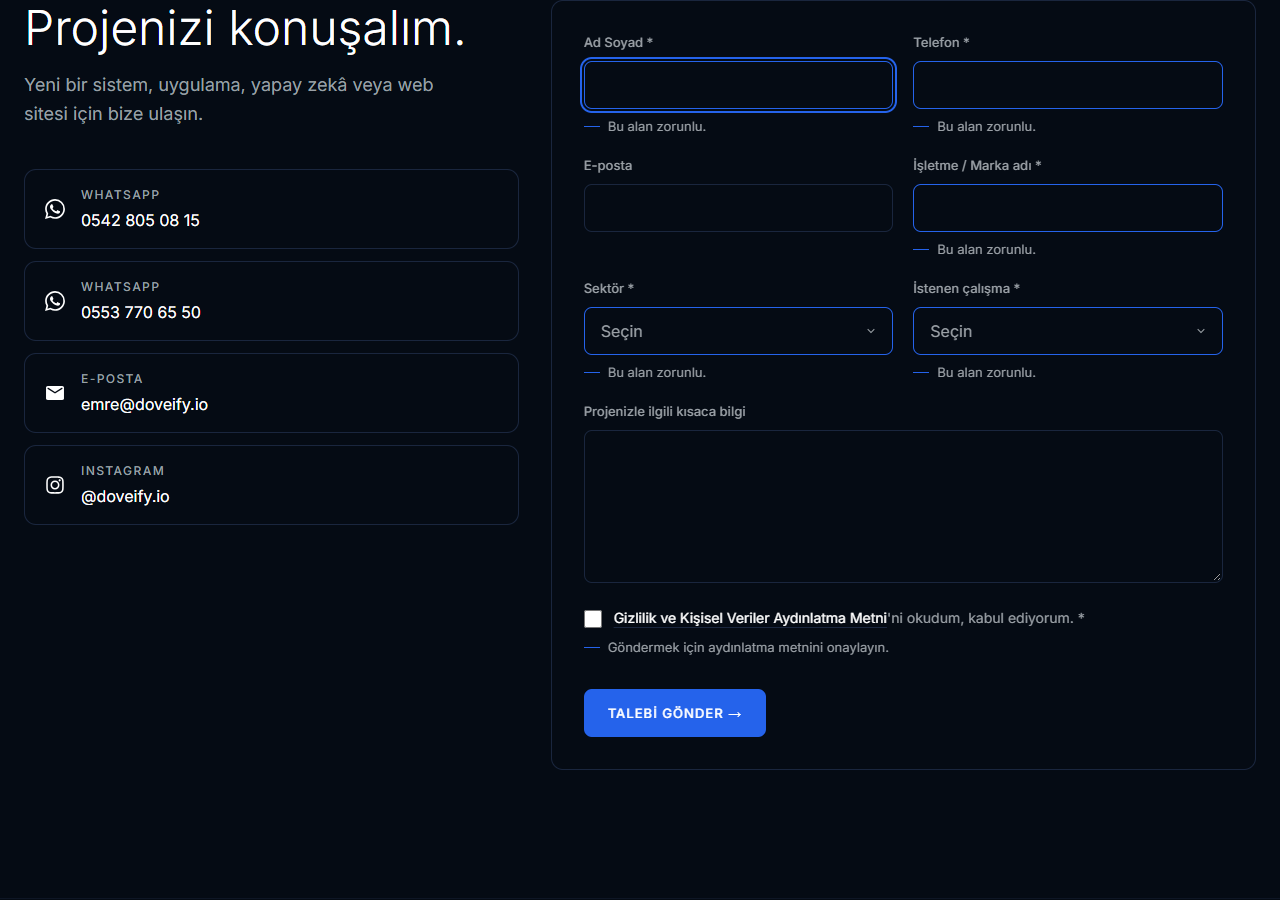
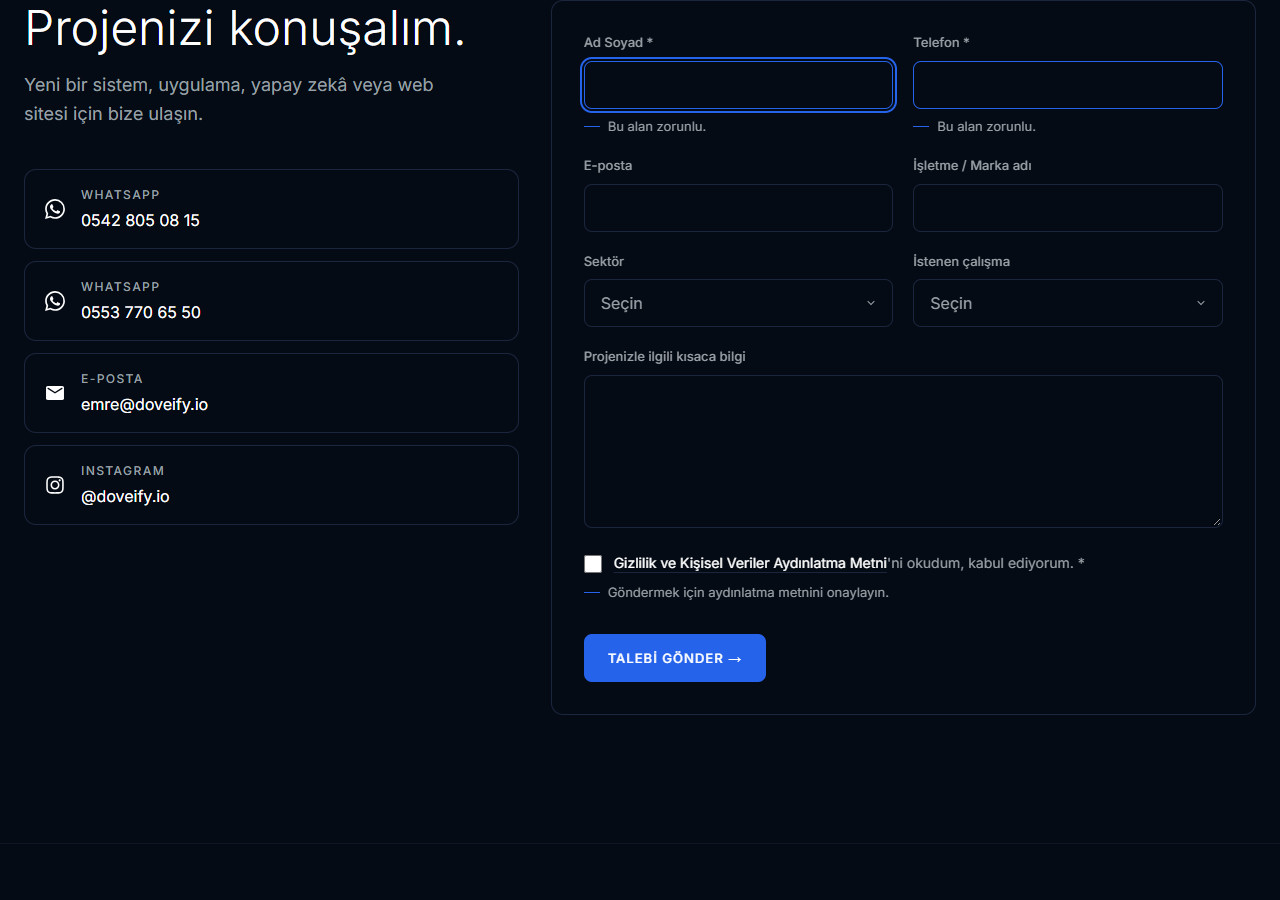
P7 fix: zorunlu alanlar ad+telefon, select/autofill renk

diff --git a/src/components/HomePageV2/ContactForm.tsx b/src/components/HomePageV2/ContactForm.tsx
@@ -1,4 +1,4 @@
-import { useEffect, useRef, useState, type FormEvent, type ReactNode } from 'react';
+import { useEffect, useRef, useState, type ChangeEvent, type FormEvent, type ReactNode } from 'react';
 import classNames from 'classnames';
 import ChevronDown from '../svgs/chevron-down';
 import { useLocale } from './locale';
@@ -11,6 +11,10 @@ import { CONTACT_FORM_NAME, HONEYPOT_FIELD, whatsappHref, type ContactFormConten
  * "WhatsApp'tan yazın" link. Validation runs in the browser first (same rules as the API route); errors are not
  * red: secondary text with a short blue line, and the field border turns blue. On success the form is replaced
  * by the confirmation and a link to the WhatsApp card.
+ * P7 düzeltme (Emre): only Ad Soyad, Telefon and the KVKK consent are required; e-mail (format-checked when
+ * filled), business, sector, service and message are optional. Native <option>s are dark-on-white (the OS
+ * draws the open list, it can't be forced dark); the closed select shows its value in white, the empty
+ * placeholder in secondary. Autofill colours are overridden in main.css (.v2-root :-webkit-autofill).
  */
 type FieldName = 'name' | 'phone' | 'email' | 'business' | 'sector' | 'service' | 'message' | 'consent';
 type Errors = Partial<Record<FieldName, string>>;
@@ -30,9 +34,6 @@ function validate(data: FormData, t: ContactFormContent): Errors {
     if (!value('phone')) errors.phone = t.errors.required;
     else if (digits.length < 10 || digits.length > 15) errors.phone = t.errors.phone;
     if (value('email') && !EMAIL_RE.test(value('email'))) errors.email = t.errors.email;
-    if (!value('business')) errors.business = t.errors.required;
-    if (!value('sector')) errors.sector = t.errors.required;
-    if (!value('service')) errors.service = t.errors.required;
     if (!data.get('consent')) errors.consent = t.errors.consent;
     return errors;
 }
@@ -121,21 +122,21 @@ export default function ContactForm({ t, successHref }: { t: ContactFormContent;
 
             <div className="grid grid-cols-1 gap-x-5 gap-y-5 sm:grid-cols-2">
                 <Field id="name" label={t.name} required error={errors.name}>
-                    <input id="name" name="name" type="text" autoComplete="name" maxLength={100} {...fieldProps('name', errors)} />
+                    <input id="name" name="name" type="text" autoComplete="name" maxLength={100} required {...fieldProps('name', errors)} />
                 </Field>
                 <Field id="phone" label={t.phone} required error={errors.phone}>
-                    <input id="phone" name="phone" type="tel" autoComplete="tel" inputMode="tel" maxLength={30} {...fieldProps('phone', errors)} />
+                    <input id="phone" name="phone" type="tel" autoComplete="tel" inputMode="tel" maxLength={30} required {...fieldProps('phone', errors)} />
                 </Field>
                 <Field id="email" label={t.email} error={errors.email}>
                     <input id="email" name="email" type="email" autoComplete="email" maxLength={120} {...fieldProps('email', errors)} />
                 </Field>
-                <Field id="business" label={t.business} required error={errors.business}>
+                <Field id="business" label={t.business} error={errors.business}>
                     <input id="business" name="business" type="text" autoComplete="organization" maxLength={120} {...fieldProps('business', errors)} />
                 </Field>
-                <Field id="sector" label={t.sector} required error={errors.sector}>
+                <Field id="sector" label={t.sector} error={errors.sector}>
                     <Select id="sector" options={t.sectors} placeholder={t.selectPlaceholder} errors={errors} />
                 </Field>
-                <Field id="service" label={t.service} required error={errors.service}>
+                <Field id="service" label={t.service} error={errors.service}>
                     <Select id="service" options={t.services} placeholder={t.selectPlaceholder} errors={errors} />
                 </Field>
                 <div className="sm:col-span-2">
@@ -218,16 +219,29 @@ function Field({ id, label, required, error, children }: { id: FieldName; label:
     );
 }
 
+// Open list: OS-drawn, so options get explicit dark text on white (#0B1220 / #fff) to stay readable.
+const OPTION_CLASS = 'bg-white text-[#0B1220]';
+
 function Select({ id, options, placeholder, errors }: { id: 'sector' | 'service'; options: string[]; placeholder: string; errors: Errors }) {
     const { className, ...aria } = fieldProps(id, errors);
+    const [empty, setEmpty] = useState(true);
     return (
         <div className="relative">
-            <select id={id} name={id} required defaultValue="" {...aria} className={classNames(className, 'appearance-none pr-10 invalid:text-v2-text-secondary')}>
-                <option value="" disabled className="bg-v2-bg-base">
+            <select
+                id={id}
+                name={id}
+                defaultValue=""
+                onChange={(event: ChangeEvent<HTMLSelectElement>) => setEmpty(event.target.value === '')}
+                {...aria}
+                className={classNames(className, 'appearance-none pr-10')}
+                // inline, not a class: FIELD_CLASS already sets text-white and two text-* utilities would race
+                style={{ color: empty ? 'var(--color-v2-text-secondary)' : '#fff' }}
+            >
+                <option value="" className={OPTION_CLASS}>
                     {placeholder}
                 </option>
                 {options.map((option) => (
-                    <option key={option} value={option} className="bg-v2-bg-base">
+                    <option key={option} value={option} className={OPTION_CLASS}>
                         {option}
                     </option>
                 ))}

diff --git a/src/pages/api/contact.ts b/src/pages/api/contact.ts
@@ -41,9 +41,9 @@ export function validateContact(body: Record<string, unknown>): { fields: Fields
     const digits = fields.phone.replace(/\D/g, '');
     if (digits.length < 10 || digits.length > 15) errors.push('phone');
     if (fields.email && !EMAIL_RE.test(fields.email)) errors.push('email');
-    if (!fields.business) errors.push('business');
-    if (!SECTORS.has(fields.sector)) errors.push('sector');
-    if (!SERVICES.has(fields.service)) errors.push('service');
+    // P7 düzeltme: business / sector / service are optional; a sent sector or service must be one of the list.
+    if (fields.sector && !SECTORS.has(fields.sector)) errors.push('sector');
+    if (fields.service && !SERVICES.has(fields.service)) errors.push('service');
     if (!fields.consent) errors.push('consent');
     return { fields, errors };
 }
@@ -79,18 +79,19 @@ export default async function handler(req: NextApiRequest, res: NextApiResponse)
         return res.status(503).json({ ok: false, error: 'not_configured' });
     }
 
+    const dash = (value: string) => value || '—'; // empty optional field
     const text = [
         `Ad Soyad: ${fields.name}`,
         `Telefon: ${fields.phone}`,
-        `E-posta: ${fields.email || '-'}`,
-        `İşletme / Marka: ${fields.business}`,
-        `Sektör: ${fields.sector}`,
-        `İstenen çalışma: ${fields.service}`,
+        `E-posta: ${dash(fields.email)}`,
+        `İşletme / Marka: ${dash(fields.business)}`,
+        `Sektör: ${dash(fields.sector)}`,
+        `İstenen çalışma: ${dash(fields.service)}`,
         `Dil: ${fields.locale.toUpperCase()}`,
         `KVKK onayı: evet`,
         '',
         'Projenizle ilgili kısaca bilgi:',
-        fields.message || '-'
+        dash(fields.message)
     ].join('\n');
 
     try {
@@ -100,7 +101,7 @@ export default async function handler(req: NextApiRequest, res: NextApiResponse)
             body: JSON.stringify({
                 from: process.env.RESEND_FROM || 'Doveify Site <onboarding@resend.dev>',
                 to: [process.env.CONTACT_TO || 'emre@doveify.io'],
-                subject: `Yeni iletişim talebi — ${fields.business} (${fields.service})`,
+                subject: `Yeni iletişim talebi — ${fields.business || fields.name}${fields.service ? ` (${fields.service})` : ''}`,
                 text,
                 ...(fields.email ? { reply_to: fields.email } : {})
             })

diff --git a/src/css/main.css b/src/css/main.css
@@ -1009,3 +1009,23 @@
 .v2-wf-collage ul::-webkit-scrollbar {
     display: none;
 }
+
+/*
+ * P7 düzeltme: browser autofill paints inputs white with black text. Cover it with the elevated surface
+ * (inset shadow — autofill background can't be set directly) and keep the text white.
+ */
+.v2-root input:-webkit-autofill,
+.v2-root input:-webkit-autofill:hover,
+.v2-root input:-webkit-autofill:focus,
+.v2-root textarea:-webkit-autofill,
+.v2-root textarea:-webkit-autofill:hover,
+.v2-root textarea:-webkit-autofill:focus,
+.v2-root select:-webkit-autofill,
+.v2-root select:-webkit-autofill:hover,
+.v2-root select:-webkit-autofill:focus {
+    -webkit-box-shadow: inset 0 0 0 1000px var(--color-v2-bg-elevated);
+    box-shadow: inset 0 0 0 1000px var(--color-v2-bg-elevated);
+    -webkit-text-fill-color: #fff;
+    caret-color: #fff;
+    transition: background-color 9999s ease-out 0s;
+}

diff --git a/RAPOR-P7.md b/RAPOR-P7.md
@@ -169,3 +169,15 @@
 **Kapı (P7 son):** `tsc --noEmit` 0 · `npm run build` 0 · `npm run lint` 0 (aynı 2 eski uyarı) · `/gizlilik/`, `/en/privacy/`, `/iletisim/`, `/en/contact/` 200, `/privacy/` 301. Lighthouse yeniden koşulmadı: değişiklik form hata dalı ve EN gizlilik metniyle sınırlı, homepage değişmedi.
 
 **Hâlâ açık:** preview'da gerçek test gönderimi (Resend → emre@doveify.io) · nav 1024–1179 hamburger onayı · gizlilik §2a'da sektör/çalışma alanları · EN çeviri onayı.
+
+## P7 düzeltme — iletişim formu (Emre, 05.11.2026)
+1. **Zorunlu alanlar:** yalnız `Ad Soyad`, `Telefon` ve KVKK onayı (yıldız yalnız bu üçünde). E-posta, İşletme / Marka adı, Sektör, İstenen çalışma ve mesaj isteğe bağlı. E-posta doluysa biçimi kontrol ediliyor. API de aynı kuralla güncellendi: sektör/çalışma gönderilirse listedekilerden biri olmalı (değilse 400). Resend gövdesinde boş alanlar `—`. Konu satırı: `Yeni iletişim talebi — <işletme ya da ad>` (+ çalışma seçildiyse ` (<çalışma>)`). Select'lerdeki `Seçin` artık seçilebilir (boş değere dönmek için).
+2. **Açılır liste okunurluğu:** `<option>`'lar `#0B1220` metin / `#fff` zemin (açık liste OS tarafından çiziliyor, koyu temaya zorlanamıyor). Kapalı select seçili değeri beyaz, boşken (`Seçin`) secondary gösteriyor; renk inline `style` ile, çünkü alan sınıfındaki `text-white` ile ikinci bir `text-*` sınıfı CSS sırasına göre çakışırdı. Ölçüm: boş `rgb(154,160,166)` → seçili `rgb(255,255,255)` → tekrar boş `rgb(154,160,166)`; option `rgb(11,18,32)` üstünde `rgb(255,255,255)`.
+3. **Autofill:** `.v2-root` içindeki input/textarea/select için `:-webkit-autofill` (+ `:hover`, `:focus`) → `box-shadow: inset 0 0 0 1000px var(--color-v2-bg-elevated)`, `-webkit-text-fill-color: #fff`, `caret-color: #fff`. Brief'teki `--color-v2-bg-elev` token'ı kodda yok; karşılığı `--color-v2-bg-elevated` (#1c2f47) kullanıldı. Kural build CSS'inde var (9 seçici). Gerçek tarayıcı autofill'i headless testte tetiklenemiyor, bu yüzden görsel olarak doğrulanmadı; kendi Chrome'unuzda bir kez kontrol edin.
+4. **Test + ekran:**
+   - Boş gönderim → yalnız `name`, `phone`, `consent` hatası; odak `Ad Soyad` (`docs/qa/P7-1280-iletisim-hata.png` yenilendi).
+   - Yalnız Ad Soyad + Telefon + onay → istemci doğrulamasından geçti, tek POST `/api/contact/`; yerelde anahtar olmadığı için 503 → hata satırı + WhatsApp linki. Doğrudan API: aynı gövde 503 (doğrulamayı geçti), geçersiz sektör 400, telefonsuz 400.
+   - Başarı: `/api/contact/` yanıtı 200'e mock'lanarak (yerelde Resend anahtarı yok) yalnız zorunlu alanlarla gönderildi → başarı kartı, odak kartta. Ekran **`docs/qa/P7-1280-iletisim-basari.png`**. Gerçek Resend teslimi hâlâ preview'da test edilecek.
+   - `P7-1280-iletisim.png` ve `P7-375-iletisim.png` yeni yıldızlarla yeniden çekildi.
+- **Kapı:** `tsc --noEmit` 0 · `npm run build` 0 · `npm run lint` 0 (aynı 2 eski uyarı).
+- **Değişen dosyalar:** `src/components/HomePageV2/ContactForm.tsx`, `src/pages/api/contact.ts`, `src/css/main.css` (autofill bloğu), `DESIGN-LOCK.md` (İletişim formu satırı), `PROJECT-STATE.md`, `docs/qa/P7-1280-{iletisim,iletisim-hata,iletisim-basari}.png`, `docs/qa/P7-375-iletisim.png` (+ aynı koşumda yeniden çekilen `P7-1280-{nav,sahiplik,clinic}.png`, `P7-375-{nav,wa-button}.png`, görsel olarak değişmedi).

diff --git a/DESIGN-LOCK.md b/DESIGN-LOCK.md
@@ -103,7 +103,7 @@ CD-REVİZE-BEKLİYOR. Görsel otorite `approved/homepage-v1.png`; ölçü/motion
 - Yollar `/iletisim/`, `/en/contact/`; nav + footer + WhatsApp buton. Sayfaya özel title/description/canonical/hreflang; OG ana sayfa görseli.
 - Desktop 12 kolon: sol 1–5 H1 `Projenizi konuşalım.` Inter 300 48 / 32px + alt metin 400 18 / 16px secondary (max 440) + 4 kanal kartı alt alta (gap 12); sağ 6–12 form kartı (1px kenarlık, radius 12, padding 32 / 24). Mobil: başlık → form → kartlar (sm: kartlar 2 kolon).
 - Kanal kartı: koyu zemin, 1px `--color-v2-border`, radius 12, padding 16/20; ikon 20px monokrom beyaz, hover kenarlık + ikon mavi; etiket 500 12px uppercase `.12em` secondary, değer 400 16px beyaz. Marka renkleri (yeşil/pembe) yok.
-- Form: etiket 500 13px secondary (zorunlu `*`); alan 48px, 1px kenarlık, radius 8, şeffaf zemin, 16px beyaz, odakta mavi kenarlık; select özel ok, boşken secondary; textarea 5 satır. Desktop alanlar 2 kolon (mesaj tam genişlik). KVKK onay kutusu 18px mavi accent, link beyaz alt çizgili. Buton: hero CTA 1 stili `TALEBİ GÖNDER →`.
+- Form: etiket 500 13px secondary (zorunlu `*` yalnız Ad Soyad, Telefon ve KVKK onayında — P7 düzeltme); alan 48px, 1px kenarlık, radius 8, şeffaf zemin, 16px beyaz, odakta mavi kenarlık; select özel ok, boşken secondary, seçiliyken beyaz; açılır liste OS'nin çizdiği native liste: option `#0B1220` metin / `#fff` zemin. Autofill: inset gölge `--color-v2-bg-elevated` + beyaz metin. textarea 5 satır. Desktop alanlar 2 kolon (mesaj tam genişlik). KVKK onay kutusu 18px mavi accent, link beyaz alt çizgili. Buton: hero CTA 1 stili `TALEBİ GÖNDER →`.
 - Hata: kırmızı yok — alan kenarlığı mavi + altında 13px secondary metin, başında 16px mavi çizgi; ilk hatalı alana odak. Gönderim hatası (P7 son): butonun altında aynı satır + `WhatsApp'tan yazın.` linki (beyaz, alt çizgili); Netlify Forms fallback'i yok, tek kanal Resend. Başarı: form yerine kart, 40px mavi çizgi + 300 28 / 24px metin + WhatsApp kartına link; odak başarı kartına.
 - Motion: yalnız form fadeUp bir kez; başlık statik (LCP öğesi — hepsi opacity 0 başlayınca Lighthouse NO_LCP verdi); başka hareket yok.
 

diff --git a/PROJECT-STATE.md b/PROJECT-STATE.md
@@ -65,7 +65,7 @@
 
 ## Son Paket
 - **P7** — `paketler/PAKET-P7-ILETISIM-REVIZYON.md` (Emre'nin preview bulguları). Rapor: RAPOR-P7.md. Commit'lenmedi.
-- **Yeni sayfalar:** `/iletisim/`, `/en/contact/` (form → `/api/contact/` → Resend, tek kanal; honeypot + rate limit; hata → mesaj + WhatsApp linki),
+- **Yeni sayfalar:** `/iletisim/`, `/en/contact/` (form → `/api/contact/` → Resend, tek kanal; zorunlu yalnız Ad Soyad + Telefon + KVKK; honeypot + rate limit; hata → mesaj + WhatsApp linki),
   `/gizlilik/` (Emre'nin metni aynen, 1272/1272 kelime doğrulandı), `/en/privacy/` (TR metnin resmî olmayan EN çevirisi, P7 son). `/privacy/` → 301 `/gizlilik/`.
 - **Site geneli:** WhatsApp yüzen buton 11 V2 sayfasında; nav imzası büyüdü (36/17/64); pill `Toplantı Talep Et`; nav'a `İletişim`; final CTA
   `TOPLANTI TALEP ET` + `İLETİŞİM FORMU →`; footer `İletişim formu` + gizlilik linkleri; Ürünler'de ekranda olmayan düzen `aria-hidden` + `inert`.
